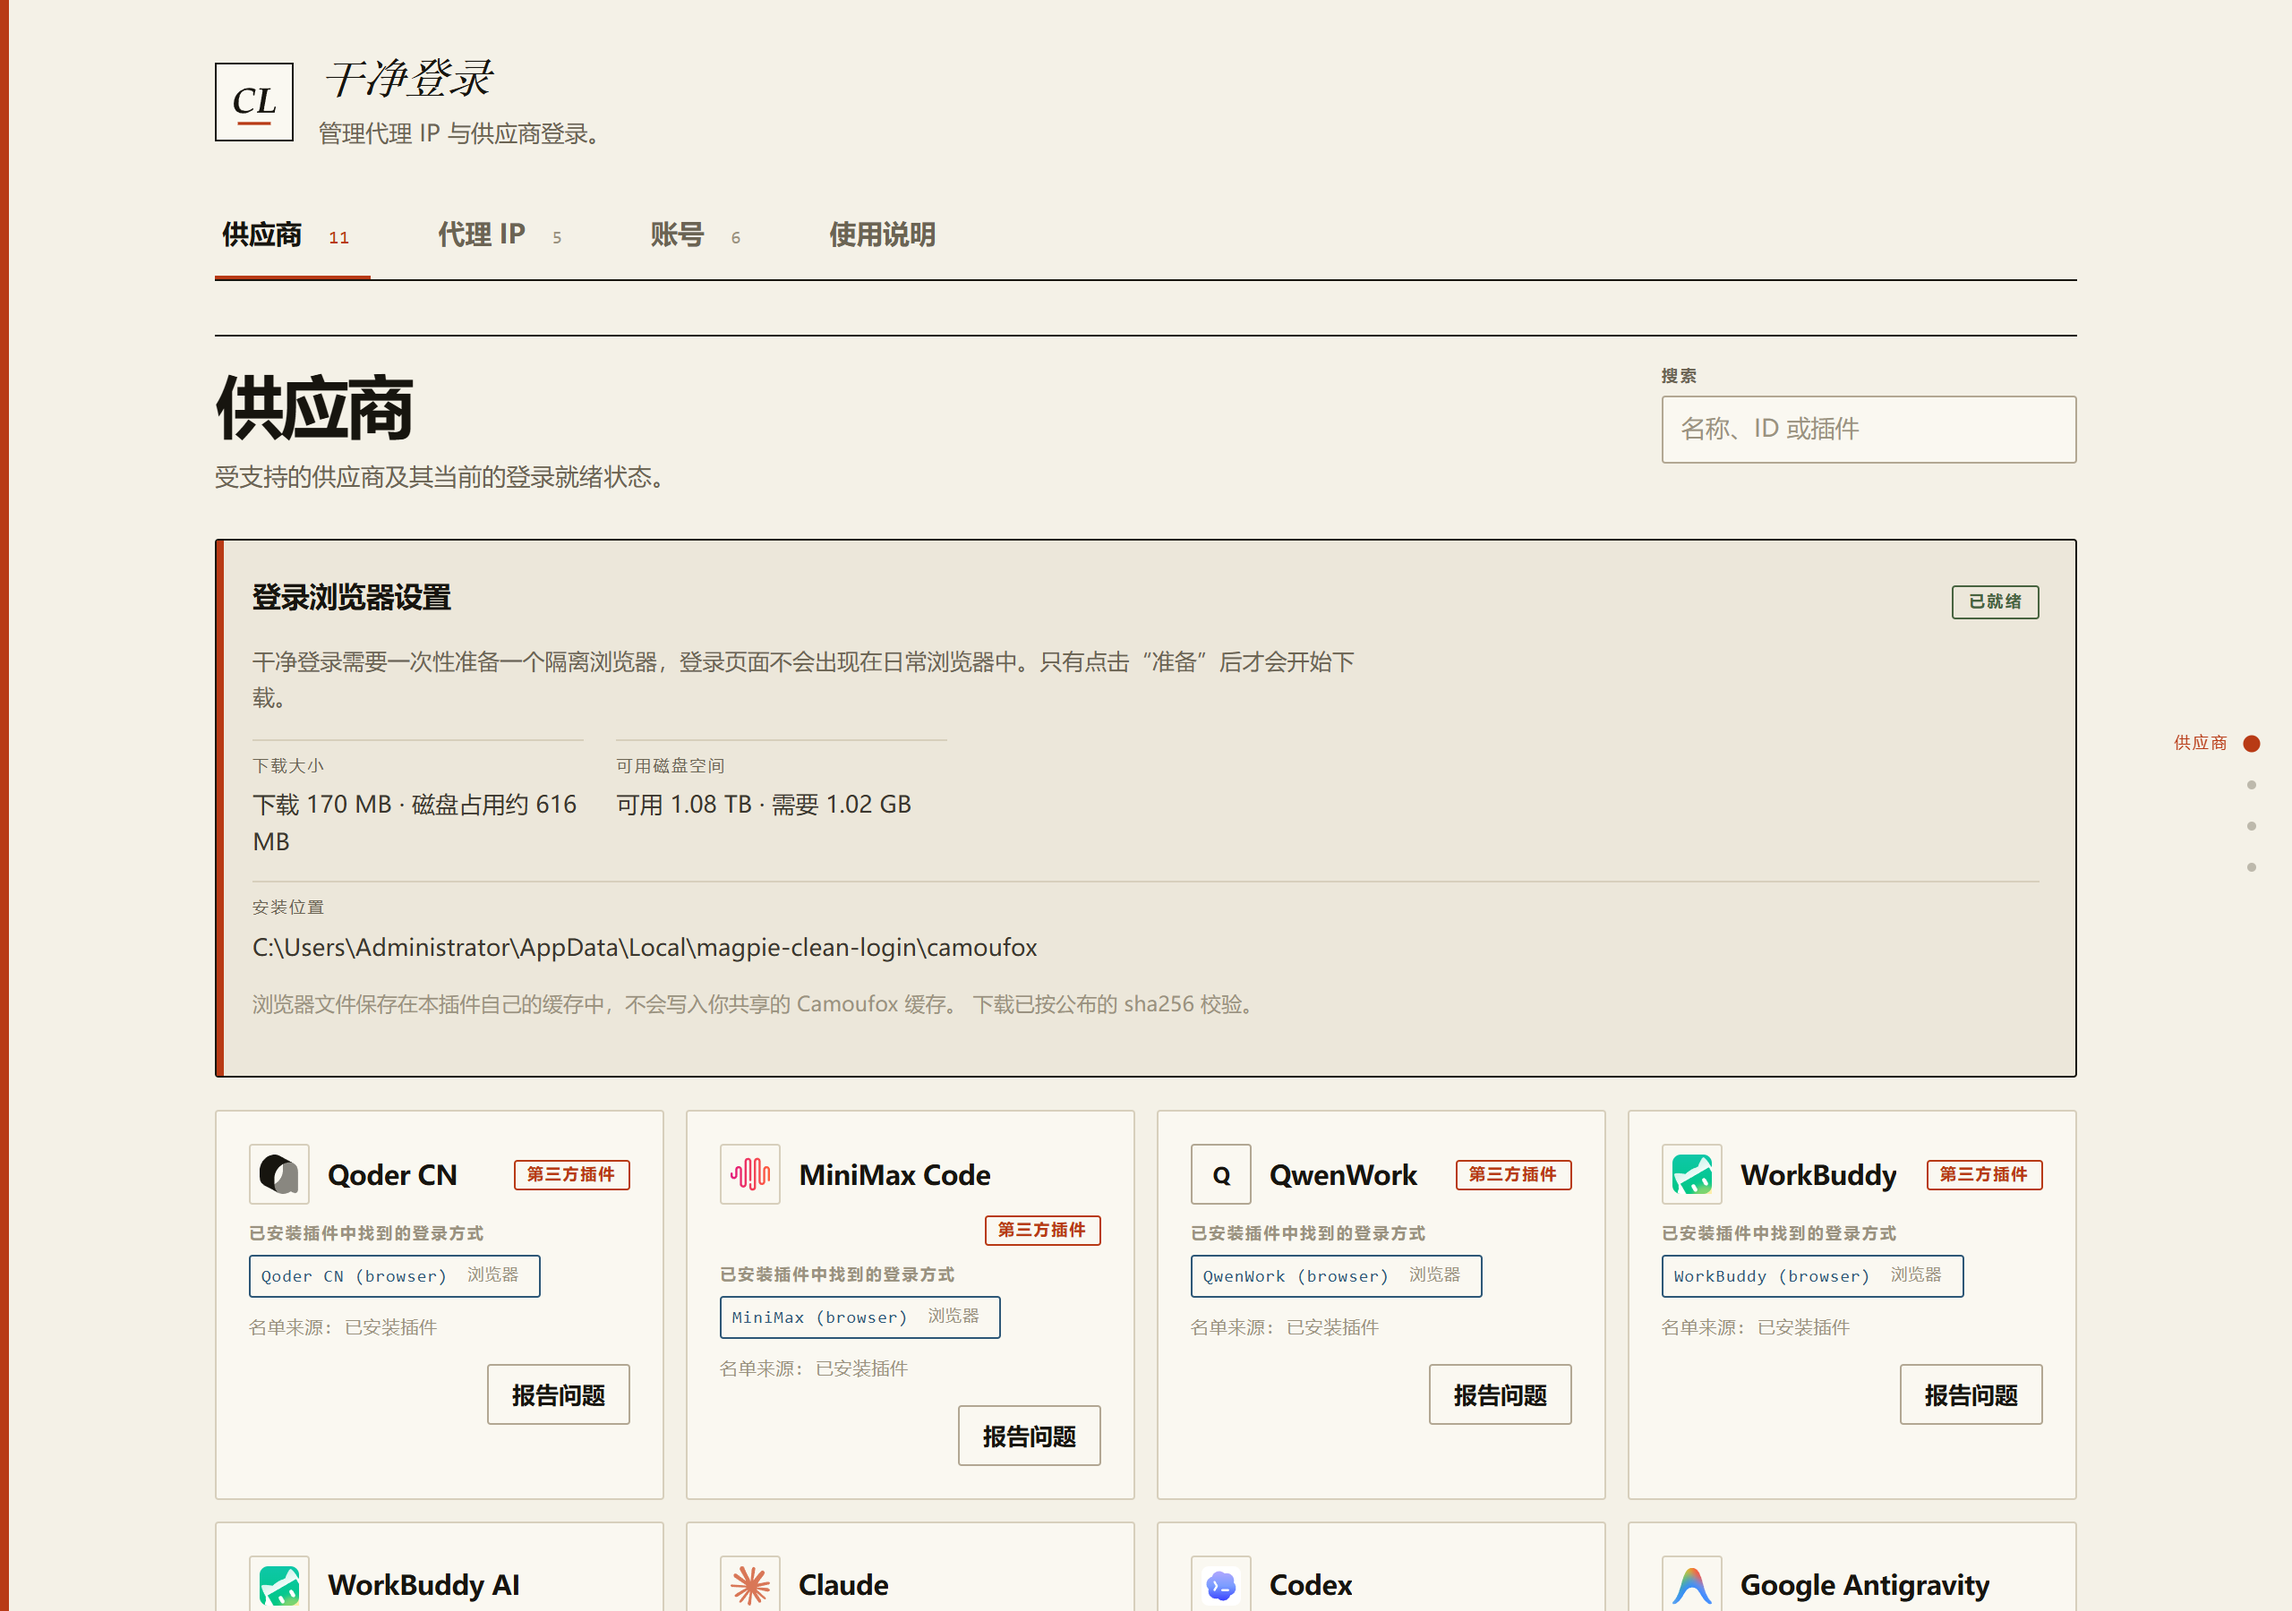
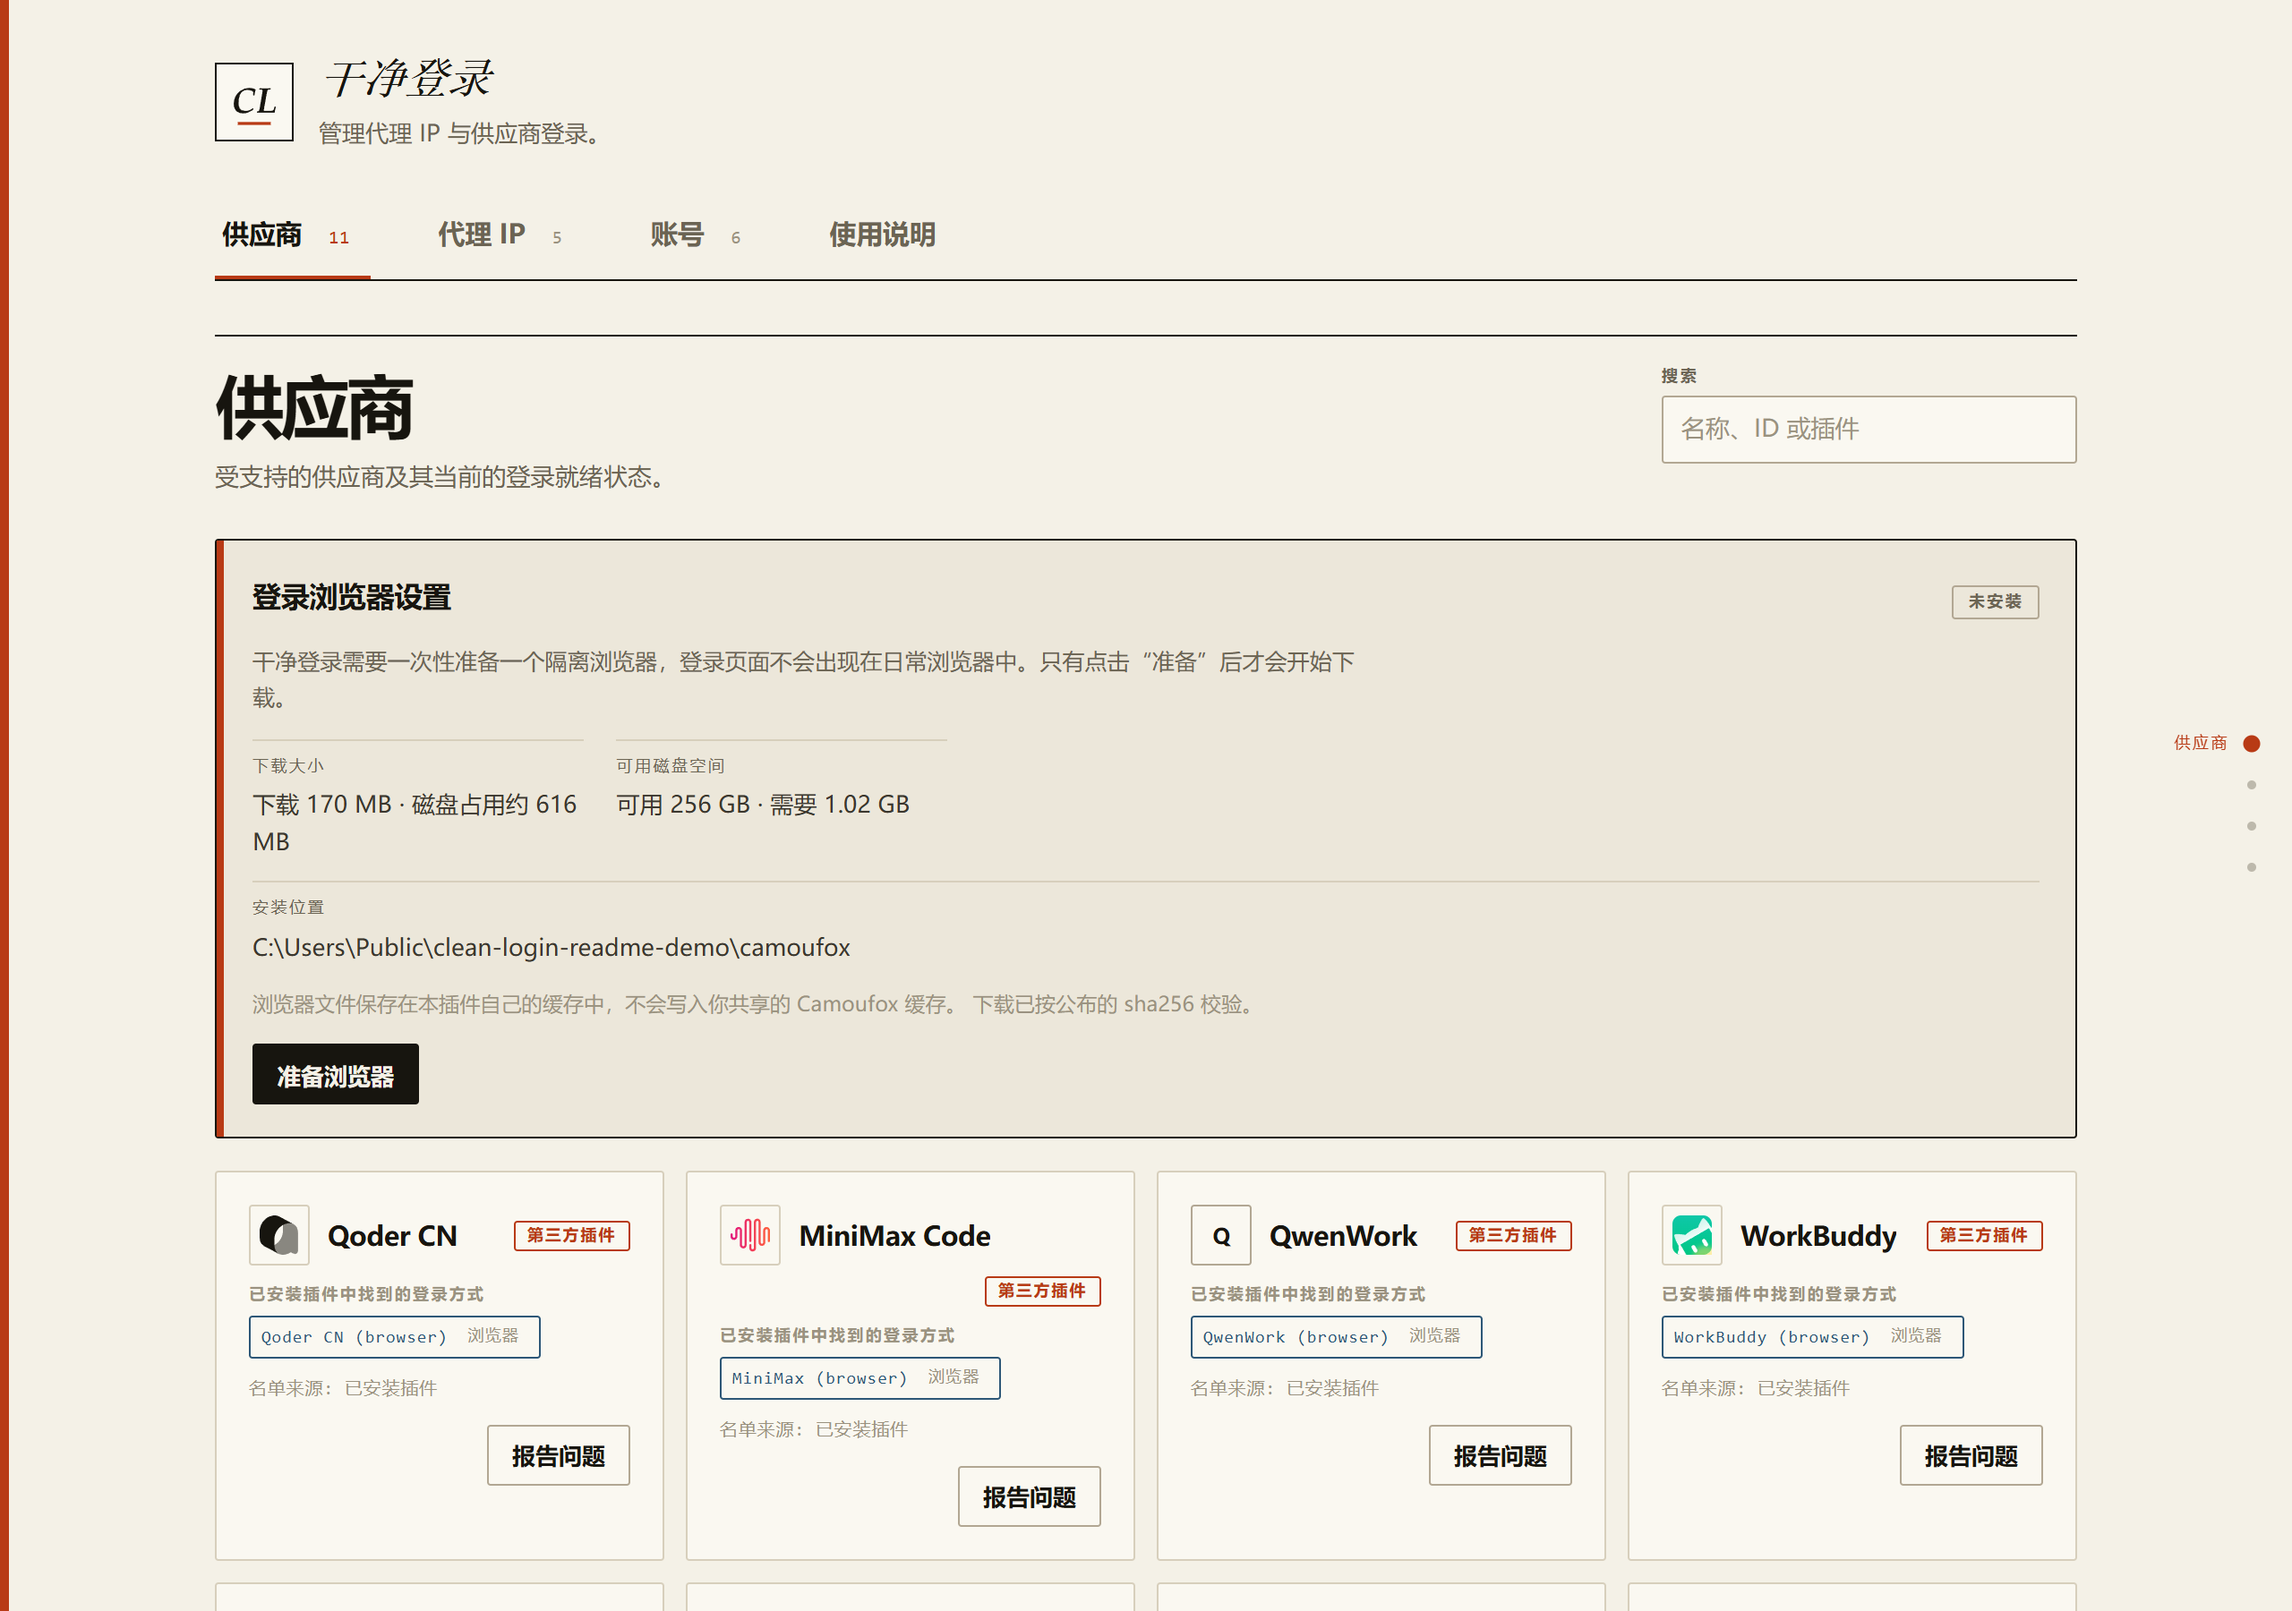
fix(readme): keep the generating machine out of the screenshots
The providers screenshot printed the OS account name in the browser panel's install path and this drive's real free space. Both come from shipped code reading the machine, so the fix drives that panel through the operator seam the shipped code already offers: a machine-neutral browser root and a supplied free-byte figure, with a self-check that refuses to write a PNG whose rendered path still names an account.

Nothing under lib/, ui/ or page/ changes, so no version bump: the gate reports no release-relevant files changed.

diff --git a/README.en.md b/README.en.md
@@ -105,7 +105,7 @@ Four steps and you have one cleanly signed-in account. About five minutes, most 
 At the top of the providers page there is a **Login browser setup** block. Click **Prepare browser** and let it finish.
 
 - The download is about **170 MB**, verified against a pinned sha256, fetched once.
-- When it is done the block reads **Ready** — that is the state in the first screenshot.
+- When it is done the block reads **Ready**. The first screenshot shows the badge as **Not installed**: the images were generated against an empty browser root, which is exactly what a first run looks like.
 - If it fails you can retry; nothing else is affected.
 
 This installs a **separate browser**, not the one you use every day. Every sign-in happens inside it, so your normal browser stays untouched.
@@ -167,7 +167,7 @@ For a second opinion, click **Check** on that row, then **Start check**. The plu
 
 ![The Guide tab: the first of ten in-page sections, explaining why this plugin exists](assets/screenshot-guide.png)
 
-> **About these screenshots:** all four are rendered by this repository's current code in a real Chrome — nothing hand-drawn, nothing composited, no page element substituted. The **account and proxy records are demo data**, using documentation-reserved IPs (`203.0.113.x`, `198.51.100.x`, `192.0.2.x`) and invented account names, because publishing the author's real accounts, exits and credentials in a public repository would be a leak. The provider cards, logos, browser-setup state and interface text are real. The generator is [`scripts/shoot-readme-screenshots.mjs`](scripts/shoot-readme-screenshots.mjs); run `bun scripts/shoot-readme-screenshots.mjs` to reproduce all four.
+> **About these screenshots:** all four are rendered by this repository's current code in a real Chrome — nothing hand-drawn, nothing composited, no page element substituted. Four things in them are demo data, because the alternative would put the generating machine's details in a public repository: the **account and proxy records** use documentation-reserved IPs (`203.0.113.x`, `198.51.100.x`, `192.0.2.x`) and invented account names, and the **install path and free-disk figure in the login-browser panel** are neutral values (`C:\Users\Public\…` and a round 256 GB) rather than this machine's OS account name and how full its drive is. The badge state, the download size and the required space are computed by the shipped code. The provider cards, logos and interface text are real. The generator is [`scripts/shoot-readme-screenshots.mjs`](scripts/shoot-readme-screenshots.mjs); run `bun scripts/shoot-readme-screenshots.mjs` to reproduce all four.
 
 <a id="features"></a>
 

diff --git a/README.md b/README.md
@@ -105,7 +105,7 @@
 打开插件后，供应商页顶部有一块 **登录浏览器设置**。点 **准备浏览器**，等它下载完。
 
 - 下载约 **170 MB**，用固定的 sha256 摘要校验，只下一次。
-- 装好后这块会显示 **已就绪**（就是本文第一张图里的样子）。
+- 第一张图里这块的徽标写 **未安装** —— 生成截图用的是一个空的浏览器目录，正好就是你第一次打开时看到的样子。
 - 下载失败可以直接重试，不影响其他功能。
 
 这一步装的是一个**独立的浏览器**，不是你日常用的那个。以后所有登录都在它里面进行，不会污染你平时的浏览器。
@@ -167,7 +167,7 @@
 
 ![使用说明页：页内十节说明书的第一节，讲清为什么要开发这个插件](assets/screenshot-guide.png)
 
-> **关于这些截图：** 全部由本仓库当前的代码在真实 Chrome 里渲染，没有手绘、没有拼接、没有替换任何页面元素。其中的**账号和代理记录是演示数据**，使用文档保留段 IP（`203.0.113.x`、`198.51.100.x`、`192.0.2.x`）和虚构账号名——因为把作者真实的账号、出口和凭据发到公开仓库是泄露。供应商卡片、logo、浏览器准备状态、界面文案都是真的。生成脚本是 [`scripts/shoot-readme-screenshots.mjs`](scripts/shoot-readme-screenshots.mjs)，跑 `bun scripts/shoot-readme-screenshots.mjs` 就能重出这四张图。
+> **关于这些截图：** 全部由本仓库当前的代码在真实 Chrome 里渲染，没有手绘、没有拼接、没有替换任何页面元素。其中有四样是演示数据，因为它们会把生成截图那台机器的信息发到公开仓库：**账号与代理记录**用文档保留段 IP（`203.0.113.x`、`198.51.100.x`、`192.0.2.x`）和虚构账号名；**登录浏览器面板里的安装位置与可用磁盘**也是中性值（`C:\Users\Public\…` 与一个整数 256 GB），因为不这么做的话那张图里就会出现这台机器的账户名和磁盘水位。徽标状态、下载大小与需求空间是 shipped 代码真的算出来的。供应商卡片、logo、界面文案都是真的。生成脚本是 [`scripts/shoot-readme-screenshots.mjs`](scripts/shoot-readme-screenshots.mjs)，跑 `bun scripts/shoot-readme-screenshots.mjs` 就能重出这四张图。
 
 <a id="features"></a>
 
